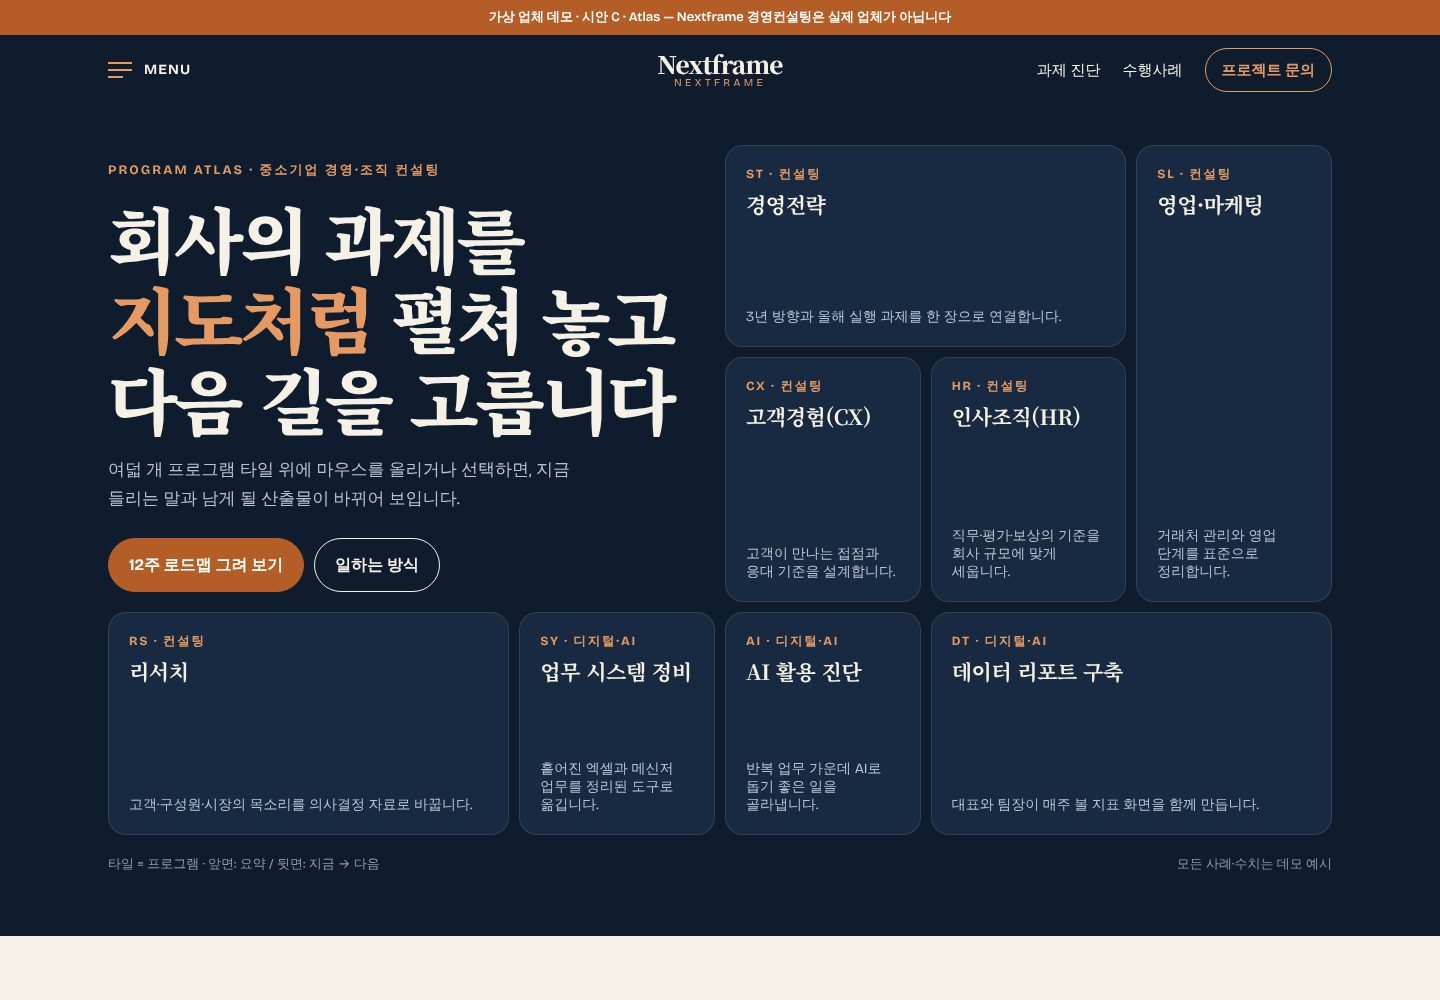
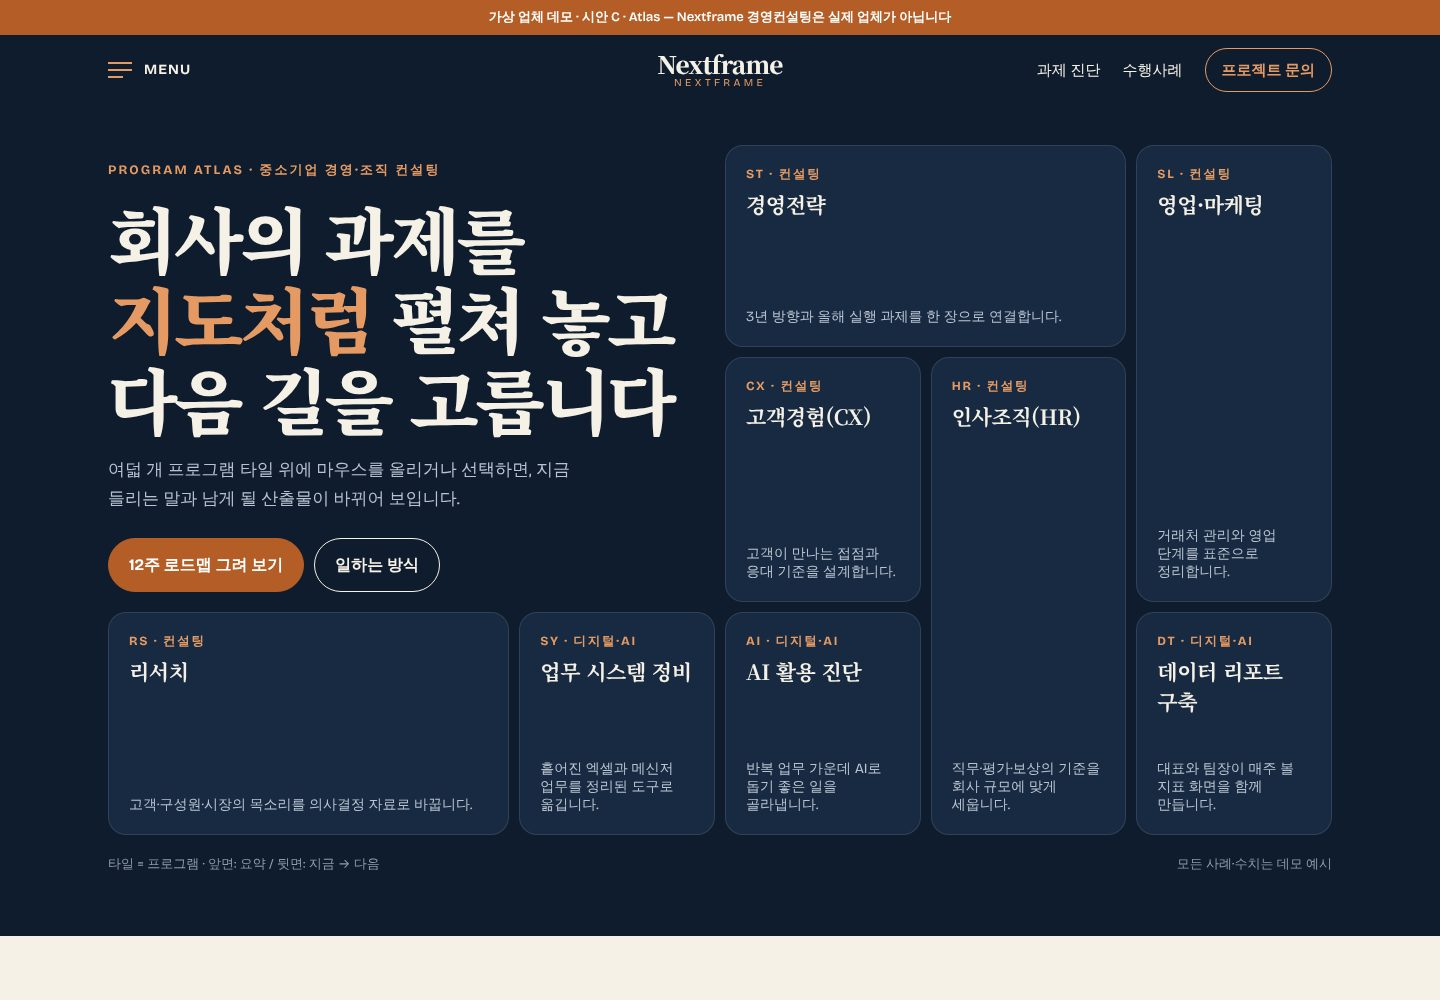
fix(pro-consulting): tall HR tile and one-column data tile in Atlas hero (#71)
Claude-Session: https://claude.ai/code/session_01XPPDvbBrcGte1ifdMXesbQ

diff --git a/concepts/pro-consulting/atlas/index.html b/concepts/pro-consulting/atlas/index.html
@@ -63,8 +63,8 @@ header{position:sticky;top:0;z-index:40;background:var(--navy);color:var(--ivory
 .title-tile .row{display:flex;gap:10px;flex-wrap:wrap;margin-top:24px}
 .btn{display:inline-flex;align-items:center;gap:8px;padding:12px 20px;border-radius:999px;font-weight:700;text-decoration:none;border:1px solid currentColor}
 .btn.cu{background:var(--copper);border-color:var(--copper);color:#fff}.btn.cu:hover{background:#9c4e1f}
-.t-strategy{grid-column:4/6}.t-sales{grid-column:6/7;grid-row:1/3}.t-cx{grid-column:4/5}.t-hr{grid-column:5/6}
-.t-research{grid-column:1/3}.t-system{grid-column:3/4}.t-ai{grid-column:4/5}.t-data{grid-column:5/7}
+.t-strategy{grid-column:4/6}.t-sales{grid-column:6/7;grid-row:1/3}.t-cx{grid-column:4/5}.t-hr{grid-column:5/6;grid-row:2/4}
+.t-research{grid-column:1/3}.t-system{grid-column:3/4}.t-ai{grid-column:4/5}.t-data{grid-column:6/7}
 .legend{display:flex;justify-content:space-between;gap:20px;flex-wrap:wrap;margin-top:18px;font-size:13px;color:#8f9bab}
 /* roadmap (signature) */
 .sec{padding:clamp(70px,8vw,120px) 0}section{scroll-margin-top:80px}

diff --git a/docs/history.md b/docs/history.md
@@ -98,3 +98,4 @@
 - 2026-10-11: 회사 소개 연혁 연도 버튼 수정. 2014를 눌러도 2019가 선택되던 문제(화면 가운데 기준 판정·스크롤 여백 불일치)를 고정 연도 바로 아래 기준선 판정으로 바꾸고, 클릭 시 해당 연혁이 연도 바 바로 아래에 오도록 이동.
 - 2026-10-12: Atlas 프로그램 타일 마우스 오버 시 뒷면 문구가 제목과 겹치던 문제 수정. 뒷면을 타일 전체를 덮는 패널(코드·제목, NOW 2줄, NEXT 3줄 말줄임)로 바꾸고 타일 높이 184px로 확대.
 - 2026-10-12: Atlas 타일 뒷면 말줄임 제거. 타일을 앞·뒷면이 같은 칸에 겹치는 그리드로 바꿔 타일 높이가 뒷면 전체 문구에 맞춰 늘어나게 함(1440~390px 잘림·넘침 없음).
+- 2026-10-12: Atlas 히어로 타일 배치 조정. 데이터 리포트 구축을 1칸 폭으로 줄이고 인사조직(HR)을 2행 높이로 세로 확장.
